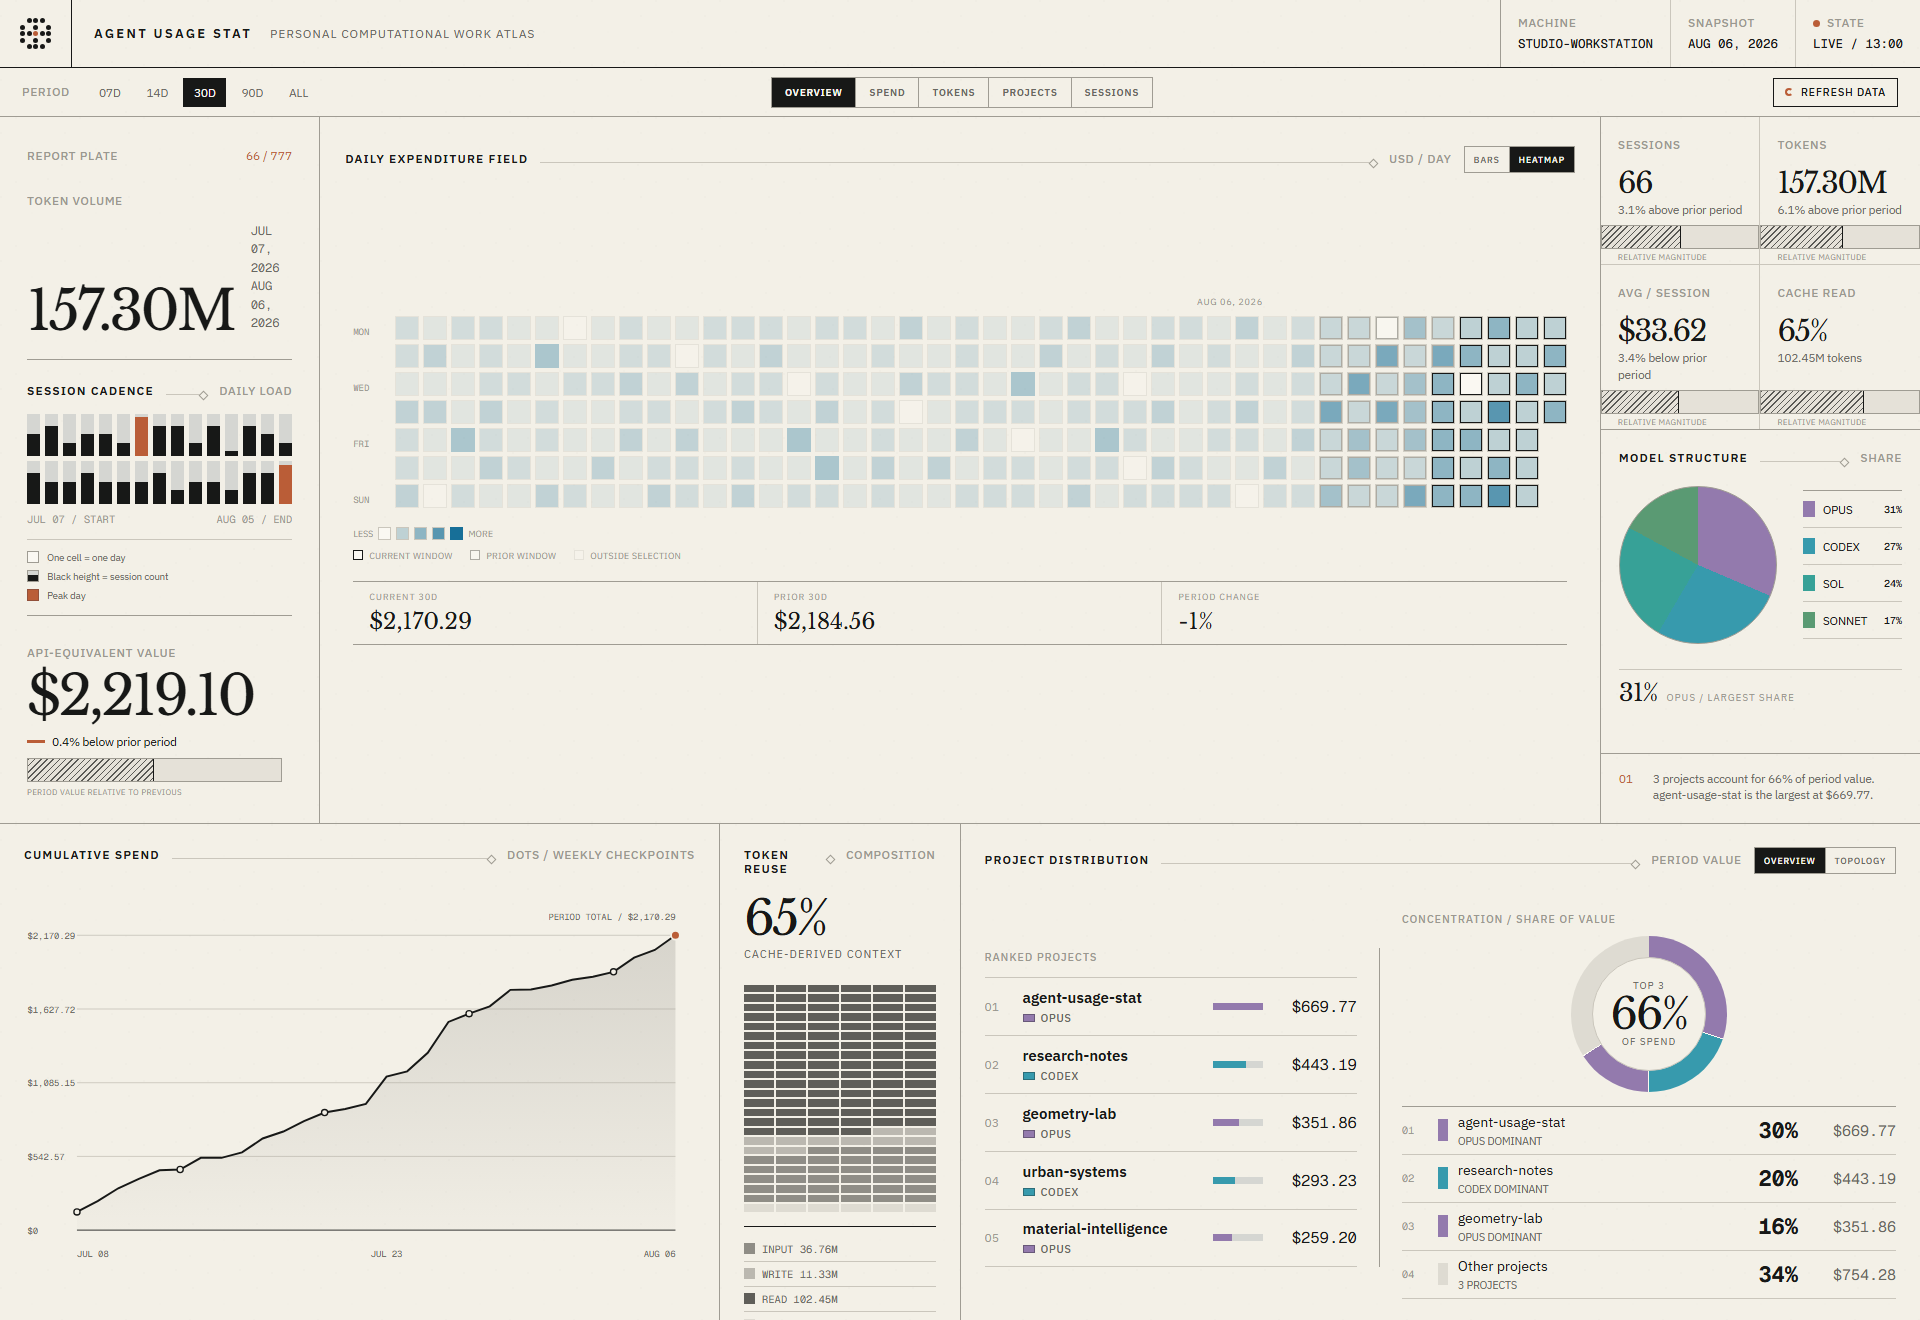
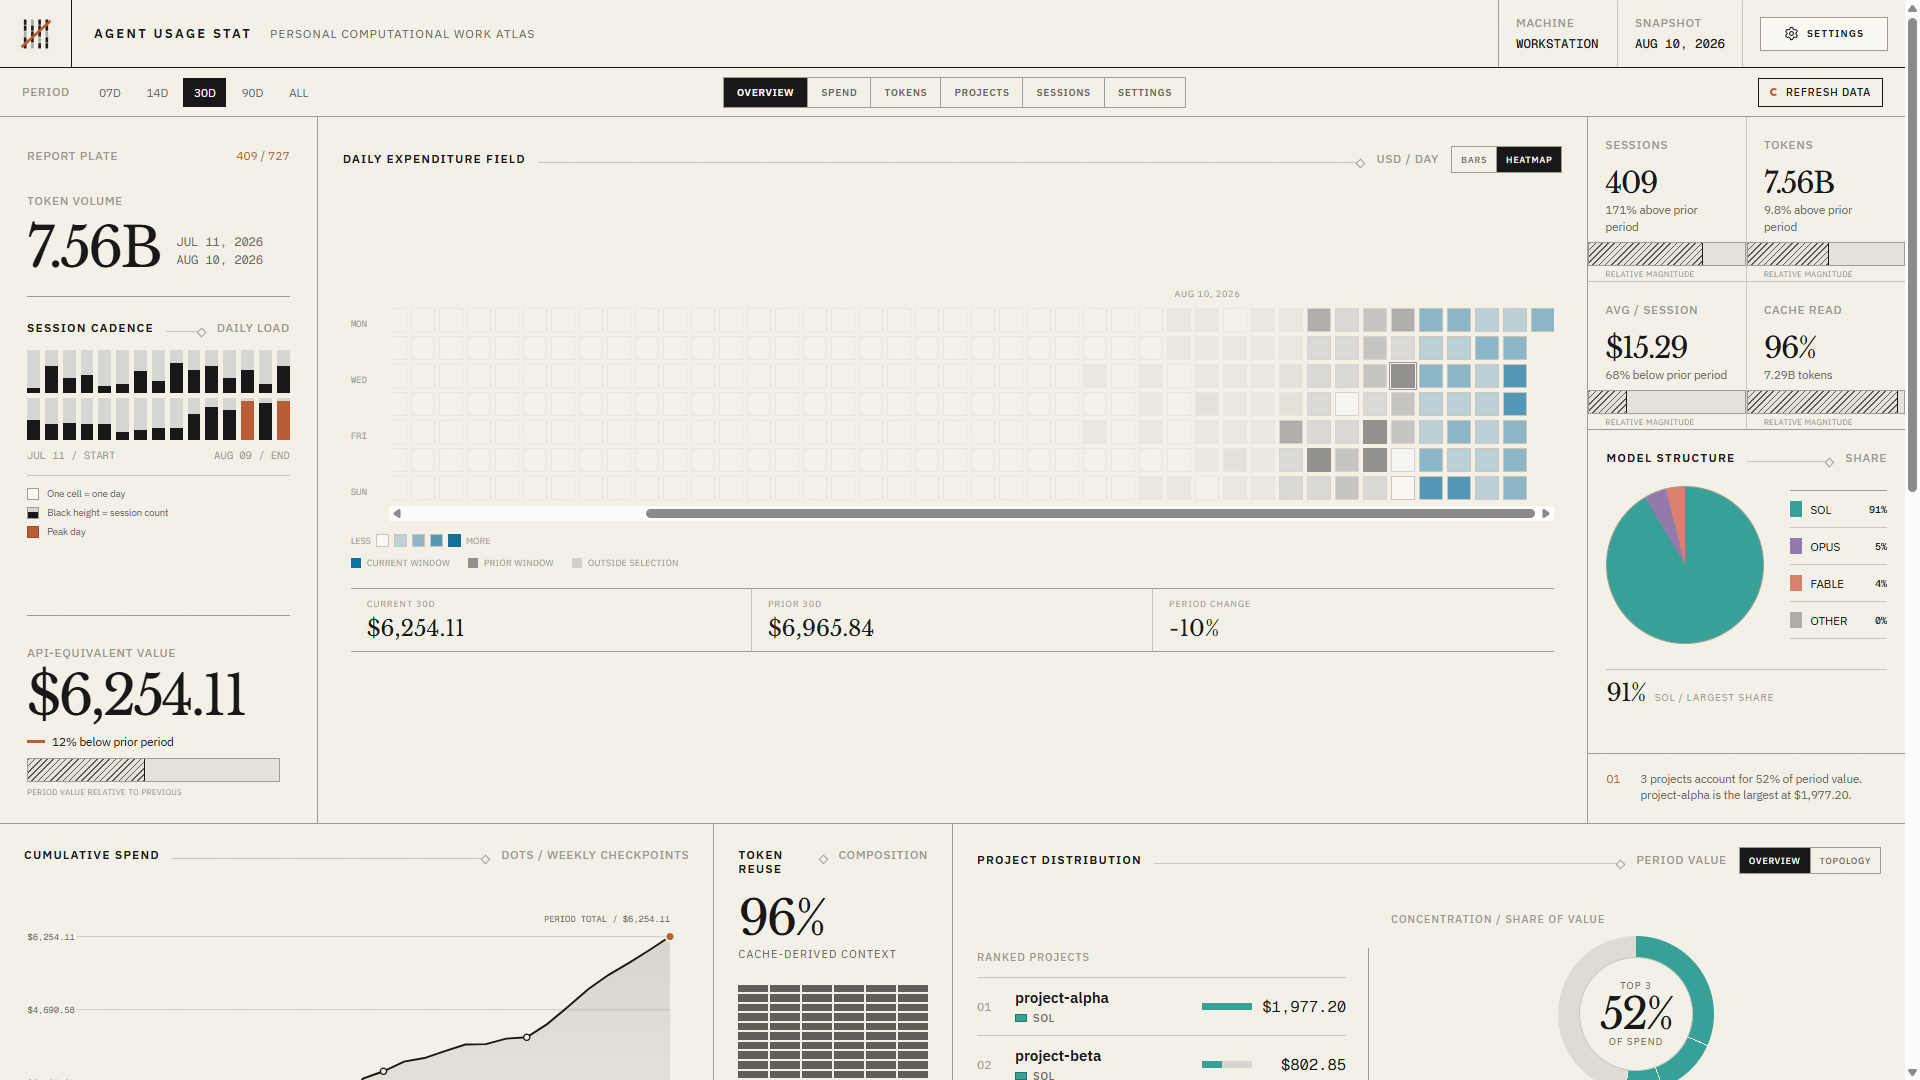
docs: expand README visual tour (#42)
## Summary

- promote the weekly and monthly session timeline beneath the hero
- add Spend, Tokens, Projects, and Sessions screenshots
- use anonymized usage data in public screenshots

Closes #41

diff --git a/README.md b/README.md
@@ -1,8 +1,14 @@
 # Agent Usage Stat
 
-A private desktop application for understanding how Claude Code, OpenAI Codex, and GitHub Copilot CLI use tokens, time, and API-equivalent cost.
+A private desktop analytics app for understanding how Claude Code, OpenAI Codex, and GitHub Copilot CLI use tokens, time, and API-equivalent cost.
 
-![Agent Usage Stat](screenshot.png)
+![Agent Usage Stat overview](screenshot.png)
+
+## Weekly and monthly session timeline
+
+![Weekly and monthly session usage maps](screenshot-timeline.png)
+
+Agent Usage Stat turns local coding-agent transcripts into one searchable usage ledger. Compare providers and models, follow spend and token volume, inspect projects and sessions, and see when work happened. Prompt and response text never enters the ledger.
 
 ## Supported
 
@@ -11,44 +17,70 @@ A private desktop application for understanding how Claude Code, OpenAI Codex, a
 - OpenAI Codex, including Codex sessions used through ChatGPT
 - GitHub Copilot CLI
 
-Agent Usage Stat does not read general ChatGPT or Claude.ai chats. All usage data stays on the local machine or in the folder already selected by the user.
+Agent Usage Stat does not read general ChatGPT or Claude.ai chats. All usage data stays on the local machine or in the folder selected by the user.
 
 ## Install
 
 Download the current installer from [GitHub Releases](https://github.com/yiliangs/agent-usage-stat/releases):
 
-- Windows: `Agent-Usage-Stat-Setup.exe`
+- Windows installer: `Agent-Usage-Stat-Setup.exe`
 - Windows portable: `Agent Usage Stat-win32-x64-*.zip`
 - macOS: `Agent-Usage-Stat.dmg`
 
 No separate Node.js or npm installation is required.
 
-The Windows installer shows installation activity, creates Start menu and desktop shortcuts, and opens the application when installation completes. On first launch, Agent Usage Stat asks where to keep the durable usage ledger and how sessions should be captured, then reconciles existing sessions and opens the desktop dashboard. The recommended local ledger is `%LOCALAPPDATA%\Agent Usage Stat\ledger` on Windows and `~/Library/Application Support/Agent Usage Stat/ledger` on macOS. Existing configured or shared ledgers are offered when found.
+On first launch, choose where to keep the durable usage ledger and how sessions should be captured. Agent Usage Stat then reconciles existing sessions and opens the dashboard. The recommended local ledger is `%LOCALAPPDATA%\Agent Usage Stat\ledger` on Windows and `~/Library/Application Support/Agent Usage Stat/ledger` on macOS.
 
-To combine usage from multiple computers, choose a folder in Google Drive, OneDrive, Dropbox, or another synchronized drive, then select the corresponding synchronized folder on each computer. The ledger contains usage totals, model names, project names, branches, and local project paths. It does not contain prompt or response text. Parsing and dashboard caches remain local and disposable.
+To combine usage from multiple computers, choose a folder in Google Drive, OneDrive, Dropbox, or another synchronized drive, then select the corresponding local folder on each computer.
 
-Continuous capture is recommended. It installs best-effort hooks for detected agents so usage can be checkpointed while you work and while the application is closed. Agent Usage Stat does not assume those hooks always fire: opening the application and choosing Sync now both reconcile every discoverable transcript. Codex requires one security confirmation after its hook is first installed. Open `/hooks` in Codex and trust the Agent Usage Stat hook when prompted.
+## Explore the data
 
-Batch sync installs no Agent Usage Stat hooks. It reconciles discoverable local transcripts whenever the application opens or Sync now is selected, but cannot recover a session deleted by an agent before the next sync. The default policy and per-agent overrides can be changed later from Settings.
+Every view uses the same date window, so cost, token, project, and session totals stay comparable as you move through the app.
 
-When continuous capture is active, closing the desktop window does not disable hooks. A small bundled helper records checkpoints without opening the application. Settings reports the last hook attempt and the last successful checkpoint separately; hook configuration is not presented as proof that a hook works on a particular machine.
+<table>
+  <tr>
+    <td width="50%">
+      <a href="screenshot-spend.png"><img src="screenshot-spend.png" alt="Spend analytics tab"></a><br>
+      <strong>Spend</strong><br>
+      Follow API-equivalent value across time, projects, machines, and individual sessions.
+    </td>
+    <td width="50%">
+      <a href="screenshot-tokens.png"><img src="screenshot-tokens.png" alt="Token analytics tab"></a><br>
+      <strong>Tokens</strong><br>
+      Inspect token traffic, daily volume, composition, and cache effectiveness.
+    </td>
+  </tr>
+  <tr>
+    <td width="50%">
+      <a href="screenshot-projects.png"><img src="screenshot-projects.png" alt="Project analytics tab"></a><br>
+      <strong>Projects</strong><br>
+      Compare spend, tokens, duration, machine count, activity, and dominant model by project.
+    </td>
+    <td width="50%">
+      <a href="screenshot-sessions.png"><img src="screenshot-sessions.png" alt="Searchable sessions tab"></a><br>
+      <strong>Sessions</strong><br>
+      Search and sort every recorded session, then open its usage anatomy for detail.
+    </td>
+  </tr>
+</table>
 
-## What it shows
+## Data and privacy
 
-- Spend and token trends
-- Claude Code, Codex, and Copilot comparisons
-- Model-vendor, project, machine, and session breakdowns
-- Cache read and write efficiency
-- Searchable session details
-- Weekly and monthly session timelines
+Each completed session becomes one JSON file under `<data-root>/logbook.d/`. This ledger is the only spend source and can be synchronized across Windows and macOS machines.
+
+The ledger contains usage totals, model names, project names, branches, machine names, and local project paths. It does not contain prompt or response text. Parsing and dashboard caches remain local and disposable.
 
 Costs are API-equivalent list-price estimates. They are not charges added to a ChatGPT, Claude, or Copilot subscription.
 
-Each completed session becomes one JSON file under `<data-root>/logbook.d/`. A synced data folder can combine several Windows and macOS machines.
+## Capture and settings
 
-Settings keeps common controls for the usage ledger and default capture policy visible. Changing the usage ledger folder merges existing history into the selected ledger without replacing newer records. The original ledger is preserved as a backup by default and is removed only when the user explicitly disables that option after a successful migration.
+Continuous capture is recommended. It installs best-effort hooks for detected agents so usage can be checkpointed while the application is closed. Opening the application and choosing **Sync now** also reconciles every discoverable transcript. Codex requires one security confirmation after its hook is first installed: open `/hooks` in Codex and trust the Agent Usage Stat hook when prompted.
 
-Advanced agent locations normally resolve from `CLAUDE_CONFIG_DIR`, `CODEX_HOME`, and `COPILOT_HOME`, then fall back to each provider's standard per-user directory. Explicit overrides tell Agent Usage Stat where to scan and manage its hook; they never move or delete provider-owned data.
+Batch sync installs no Agent Usage Stat hooks. It reconciles discoverable local transcripts whenever the application opens or **Sync now** is selected, but it cannot recover a session deleted by an agent before the next sync.
+
+Settings reports the last hook attempt and the last successful checkpoint separately. The default capture policy and per-agent overrides can be changed at any time. Changing the ledger folder merges existing history into the selected ledger without replacing newer records, and preserves the original ledger as a backup by default.
+
+Advanced agent locations normally resolve from `CLAUDE_CONFIG_DIR`, `CODEX_HOME`, and `COPILOT_HOME`, then fall back to each provider's standard per-user directory. Explicit overrides only change where Agent Usage Stat scans and manages its hook. They never move or delete provider-owned data.
 
 ## Application architecture
 
@@ -68,7 +100,7 @@ Agent Usage Stat desktop application
   -> PortalRuntime -> generated snapshot -> aus:// renderer
 ```
 
-The production application opens no localhost server. The renderer is sandboxed and reads packaged assets and generated data through the application protocol.
+The production application opens no localhost server. The sandboxed renderer reads packaged assets and generated data through the `aus://` application protocol.
 
 ## Development
 
@@ -88,11 +120,8 @@ npm run make
 - `npm start` builds and launches the development desktop application.
 - `npm run make` creates platform installers under `out/desktop/make/`.
 
-Tagged releases are built for Windows and macOS by `.github/workflows/desktop-release.yml`. The workflow requires signing credentials before it will publish anything:
+Tagged releases are built for Windows and macOS by `.github/workflows/desktop-release.yml`. Published releases require signing credentials. Local `npm run make` artifacts are unsigned development builds; published releases are signed, and macOS releases are notarized.
 
-- Windows: `WINDOWS_CERTIFICATE_BASE64` and `WINDOWS_CERTIFICATE_PASSWORD`
-- macOS: `APPLE_CERTIFICATE_BASE64`, `APPLE_CERTIFICATE_PASSWORD`, `APPLE_ID`, `APPLE_APP_SPECIFIC_PASSWORD`, and `APPLE_TEAM_ID`
-
-Local `npm run make` artifacts are unsigned development builds. Published releases are signed, and macOS releases are notarized. The root npm project is private and exposes no supported JavaScript library API or end-user CLI package.
+The npm package does not expose a supported JavaScript library API.
 
 Licensed under MIT.
